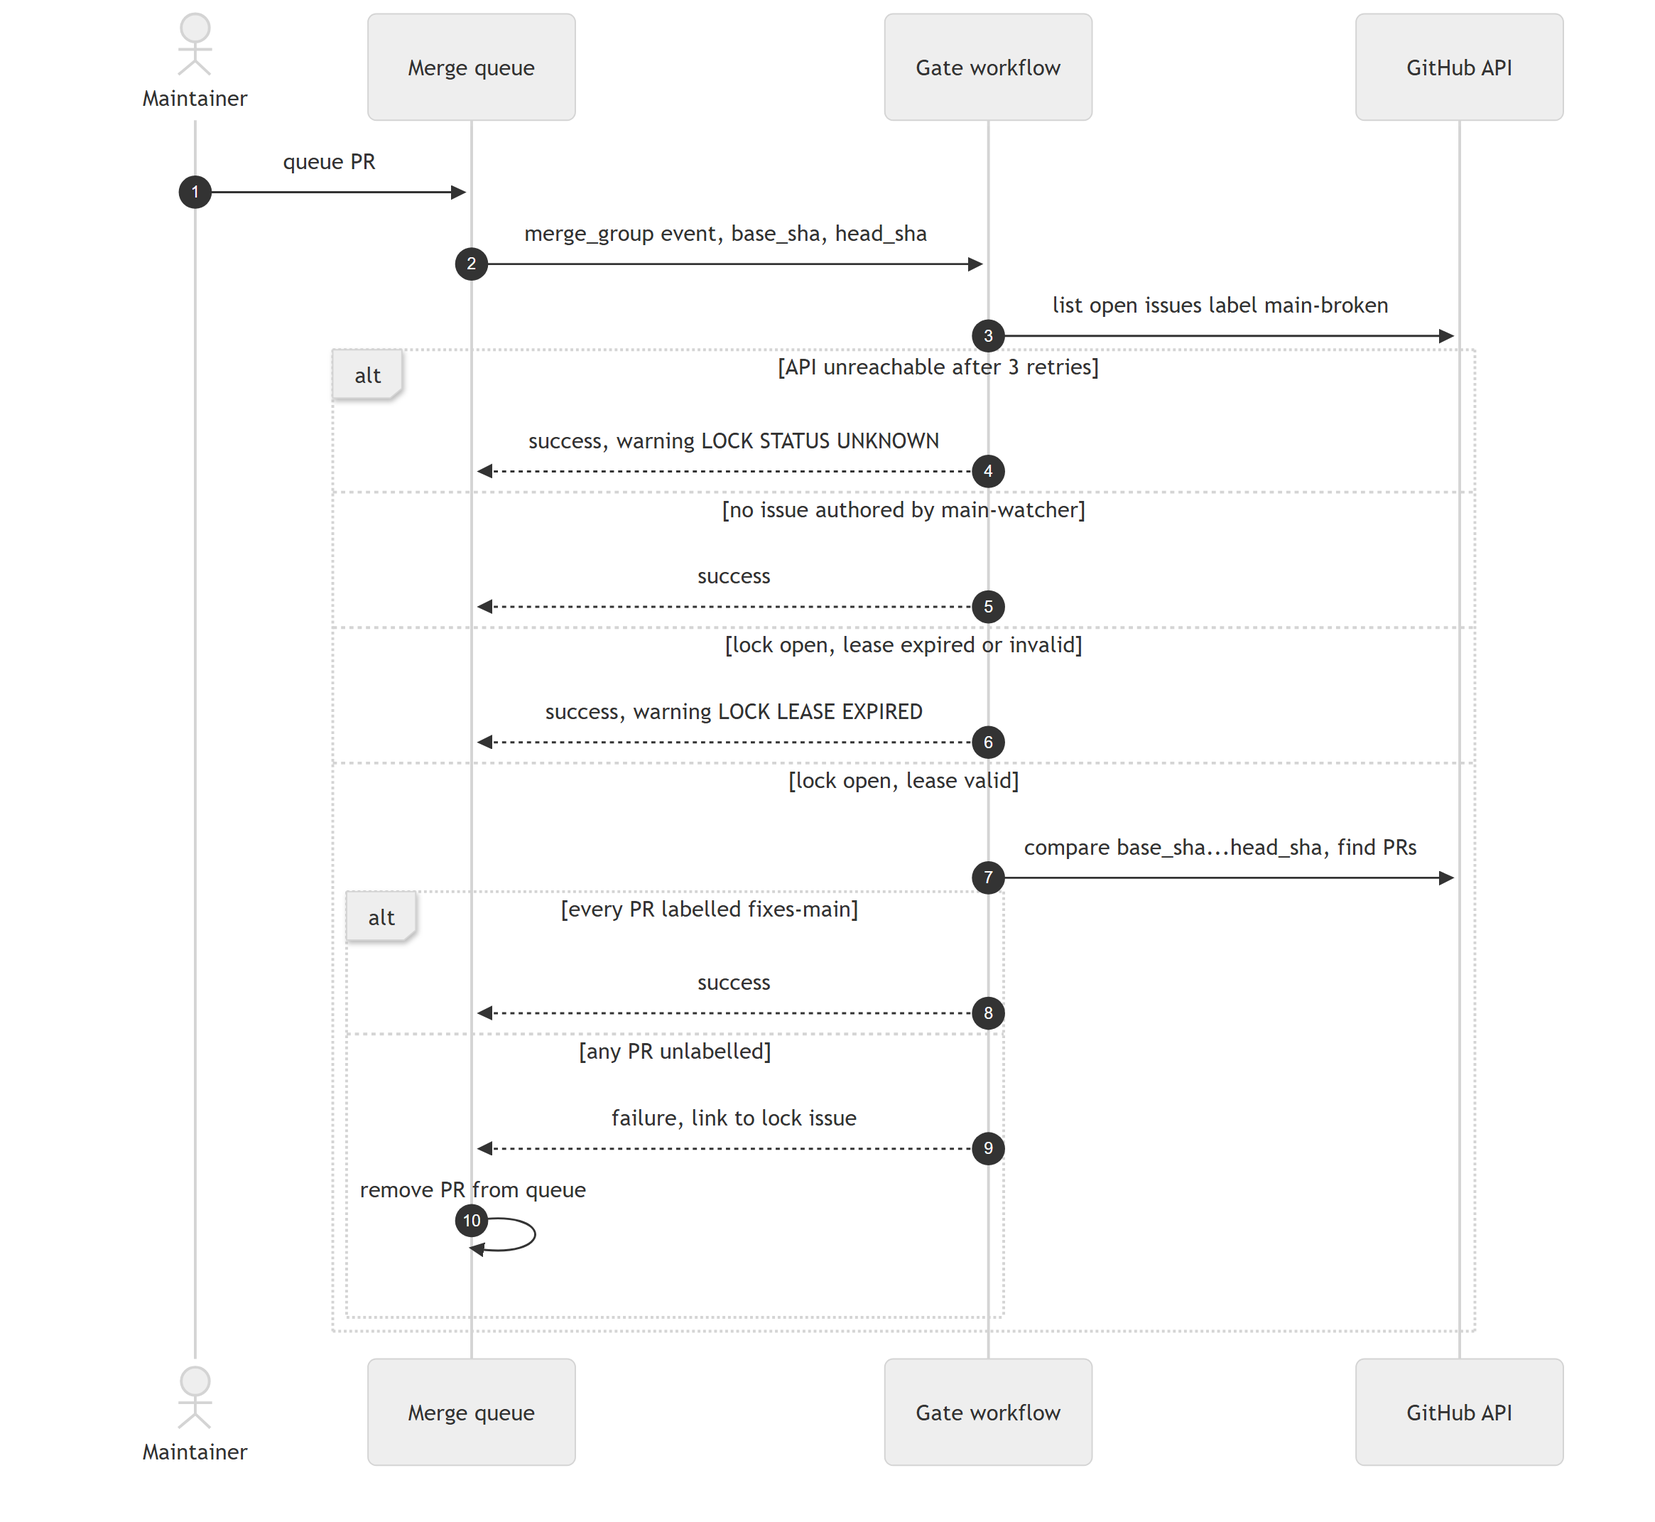
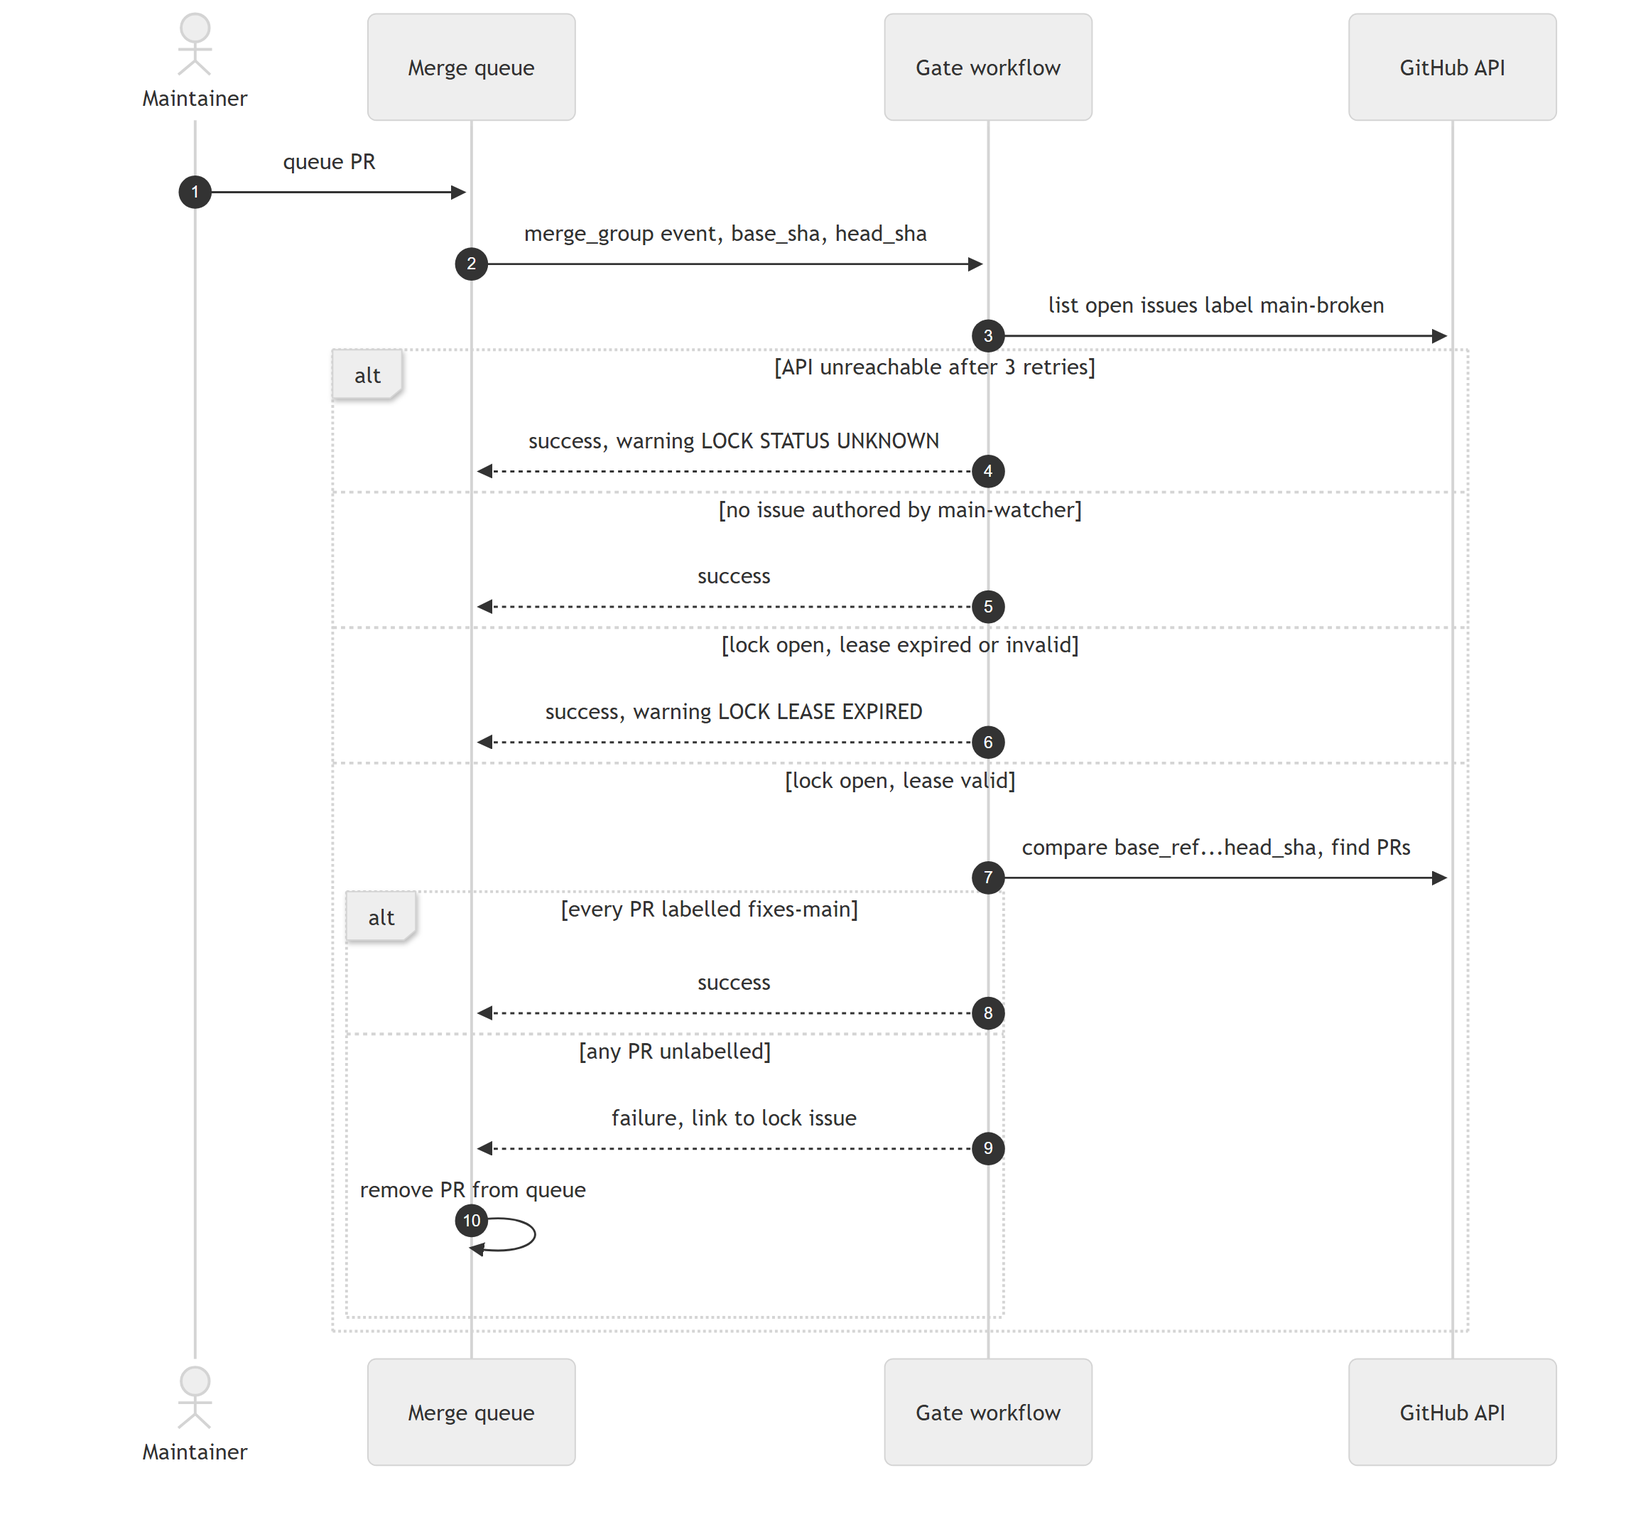
Check every PR in a batched merge group; publish the sandbox gate separately
Sandbox TS-S5 showed that a queue entry's base_sha is the head of the entry ahead of it,
so base_sha...head_sha saw only the entry's own PR. The gate now compares the queue's
target branch (base_ref) with head_sha. A-5 and §5.2 record the finding.

Public sandbox targets cannot use an action from the private sandbox watcher repo, so
sandbox/publish-gate.sh publishes the gate to the public main-watcher-sandbox/gate repo,
and seed-target.sh points targets at it.

diff --git a/tests/MainWatcher.Gate.Tests/GateTests.cs b/tests/MainWatcher.Gate.Tests/GateTests.cs
@@ -12,7 +12,7 @@ public class GateTests
     static FakeGitHub LockedGroup(DateTimeOffset leaseUntil, string[] pr1Labels, string[] pr2Labels) =>
         new FakeGitHub()
             .LockIssues(Lock(7, leaseUntil))
-            .Compare(Sha('a'), Sha('f'),
+            .Compare("main", Sha('f'),
                 Commit(Sha('1')), Commit(Sha('b'), "Merge pull request #1 from team/fix"),
                 Commit(Sha('2')), Commit(Sha('c'), "Merge pull request #2 from team/feature"))
             .CommitPulls(Sha('1'), Pull(1, pr1Labels))
@@ -94,6 +94,21 @@ public class GateTests
         Assert.Contains("#1 PR 1", verdict.Detail);
     }
 
+    // TS-S5 in the sandbox: for a queue entry behind another, base_sha is the head of the entry ahead,
+    // so the gate compares from the target branch to see every PR in the batch.
+    [Fact]
+    public async Task A_batched_entry_is_checked_against_the_target_branch_not_base_sha()
+    {
+        var github = LockedGroup(ValidLease, [], ["fixes-main"]);
+        var entryBehind = new GateEvent("merge_group", Sha('c'), Sha('f'), $"gh-readonly-queue/main/pr-2-{Sha('c')}", "refs/heads/main");
+
+        var verdict = await github.Gate().DecideAsync(entryBehind, Now, TestContext.Current.CancellationToken);
+
+        Assert.Equal(GateOutcome.Fail, verdict.Outcome);
+        Assert.Contains("#1 PR 1", verdict.Detail);
+        Assert.DoesNotContain(github.Requests, request => request.Contains($"compare/{Sha('c')}"));
+    }
+
     [Fact]
     public async Task A_valid_lock_passes_a_group_where_every_pull_request_is_a_fix()
     {
@@ -103,7 +118,7 @@ public class GateTests
 
         Assert.Equal(GateOutcome.Pass, verdict.Outcome);
         Assert.Null(verdict.FailOpenReason);
-        // Every commit between base_sha and head_sha was checked.
+        // Every commit on head_sha that is not yet on main was checked.
         foreach (var sha in new[] { '1', 'b', '2', 'c' })
             Assert.Contains($"/repos/{Repo}/commits/{Sha(sha)}/pulls?per_page=100", github.Requests);
     }
@@ -114,7 +129,7 @@ public class GateTests
         // A squash-merged group: the rewritten commits have no associated PRs.
         var github = new FakeGitHub()
             .LockIssues(Lock(7, ValidLease))
-            .Compare(Sha('a'), Sha('f'), Commit(Sha('b'), "Fix the build (#1)\n\nDetails"), Commit(Sha('c'), "Add a feature"))
+            .Compare("main", Sha('f'), Commit(Sha('b'), "Fix the build (#1)\n\nDetails"), Commit(Sha('c'), "Add a feature"))
             .CommitPulls(Sha('b'))
             .CommitPulls(Sha('c'))
             .Respond($"/repos/{Repo}/pulls/1", Pull(1, "fixes-main"))
@@ -133,7 +148,7 @@ public class GateTests
         var otherBranch = new { number = 9, title = "stacked", state = "open", @base = new { @ref = "feature" }, labels = Array.Empty<object>() };
         var github = new FakeGitHub()
             .LockIssues(Lock(7, ValidLease))
-            .Compare(Sha('a'), Sha('f'), Commit(Sha('2')))
+            .Compare("main", Sha('f'), Commit(Sha('2')))
             .CommitPulls(Sha('2'), Pull(2, "fixes-main"), closed, otherBranch);
 
         var verdict = await github.Gate().DecideAsync(MergeGroup(headPr: 2), Now, TestContext.Current.CancellationToken);
@@ -236,7 +251,7 @@ public class GateTests
     {
         var github = new FakeGitHub()
             .LockIssues(Lock(7, ValidLease))
-            .Respond($"/repos/{Repo}/compare/{Sha('a')}...{Sha('f')}?per_page=100&page=1",
+            .Respond($"/repos/{Repo}/compare/main...{Sha('f')}?per_page=100&page=1",
                 () => Json(HttpStatusCode.ServiceUnavailable, new { message = "unavailable" }));
 
         var verdict = await github.Gate().DecideAsync(MergeGroup(), Now, TestContext.Current.CancellationToken);
@@ -259,8 +274,8 @@ public class GateTests
                 return response;
             })
             .Respond($"/repos/{Repo}/issues?state=open&labels=main-broken&per_page=100&page=2", new[] { Lock(7, ValidLease) })
-            .Respond($"/repos/{Repo}/compare/{Sha('a')}...{Sha('f')}?per_page=100&page=1", new { total_commits = 150, commits = commits[..100] })
-            .Respond($"/repos/{Repo}/compare/{Sha('a')}...{Sha('f')}?per_page=100&page=2", new { total_commits = 150, commits = commits[100..] });
+            .Respond($"/repos/{Repo}/compare/main...{Sha('f')}?per_page=100&page=1", new { total_commits = 150, commits = commits[..100] })
+            .Respond($"/repos/{Repo}/compare/main...{Sha('f')}?per_page=100&page=2", new { total_commits = 150, commits = commits[100..] });
         foreach (var i in Enumerable.Range(0, 150))
             github.CommitPulls(i.ToString("x40"), Pull(2));
 
@@ -274,7 +289,7 @@ public class GateTests
     public void Reads_the_merge_group_fields_from_the_event_payload()
     {
         using var payload = JsonDocument.Parse($$$"""
-            {"action":"checks_requested","merge_group":{"base_sha":"{{{Sha('a')}}}","head_sha":"{{{Sha('f')}}}","head_ref":"gh-readonly-queue/main/pr-2-{{{Sha('a')}}}"}}
+            {"action":"checks_requested","merge_group":{"base_sha":"{{{Sha('a')}}}","head_sha":"{{{Sha('f')}}}","head_ref":"gh-readonly-queue/main/pr-2-{{{Sha('a')}}}","base_ref":"refs/heads/main"}}
             """);
 
         Assert.Equal(MergeGroup(), GateEvent.Read("merge_group", payload.RootElement));

diff --git a/src/MainWatcher.Gate/Gate.cs b/src/MainWatcher.Gate/Gate.cs
@@ -20,11 +20,11 @@ public sealed record GateVerdict(GateOutcome Outcome, string Title, string Detai
 }
 
 /// <summary>The fields of the triggering event the gate uses.</summary>
-public sealed record GateEvent(string Name, string? BaseSha = null, string? HeadSha = null, string? HeadRef = null)
+public sealed record GateEvent(string Name, string? BaseSha = null, string? HeadSha = null, string? HeadRef = null, string? BaseRef = null)
 {
     public static GateEvent Read(string name, JsonElement payload) =>
         payload.TryGetProperty("merge_group", out var group) && group.ValueKind == JsonValueKind.Object
-            ? new(name, String(group, "base_sha"), String(group, "head_sha"), String(group, "head_ref"))
+            ? new(name, String(group, "base_sha"), String(group, "head_sha"), String(group, "head_ref"), String(group, "base_ref"))
             : new(name);
 
     static string? String(JsonElement element, string property) =>
@@ -112,15 +112,22 @@ public sealed class Gate(GitHubApi api, string repository, string botLogin = Gat
     }
 
     /// <summary>
-    /// Finds the PRs in a merge group from the commits between <c>base_sha</c> and <c>head_sha</c> (A-5):
-    /// the open PRs associated with each commit, PRs named in merge or squash commit subjects, and the
-    /// PR in the queue branch name. Only open PRs into the queue's branch count. Including a PR that is
-    /// not in the group can only make the gate stricter.
+    /// Finds the PRs in a merge group from the commits on <c>head_sha</c> that are not yet on the queue's
+    /// target branch: the open PRs associated with each commit, PRs named in merge or squash commit
+    /// subjects, and the PR in the queue branch name. Only open PRs into the target branch count.
+    /// Including a PR that is not in the group can only make the gate stricter.
     /// </summary>
+    /// <remarks>
+    /// The comparison starts from the target branch, not <c>base_sha</c>: for a queue entry behind
+    /// others, <c>base_sha</c> is the head of the entry ahead of it, so <c>base_sha...head_sha</c>
+    /// holds only that entry's own PR (sandbox TS-S5, 2026-09-16; A-5).
+    /// </remarks>
     async Task<List<PullRequest>> FindGroupPullRequestsAsync(GateEvent evt, CancellationToken ct)
     {
         var queueBranch = evt.HeadRef is null ? null : QueueBranch.Match(evt.HeadRef);
-        var targetBranch = queueBranch is { Success: true } ? queueBranch.Groups["branch"].Value : null;
+        var targetBranch = evt.BaseRef is { } baseRef && baseRef.StartsWith("refs/heads/", StringComparison.Ordinal)
+            ? baseRef["refs/heads/".Length..]
+            : queueBranch is { Success: true } ? queueBranch.Groups["branch"].Value : null;
         var found = new SortedDictionary<int, PullRequest>();
         var named = new SortedSet<int>();
 
@@ -140,9 +147,9 @@ public sealed class Gate(GitHubApi api, string repository, string botLogin = Gat
         if (queueBranch is { Success: true })
             named.Add(int.Parse(queueBranch.Groups["number"].Value));
 
-        if (evt.BaseSha is not null && evt.HeadSha is not null)
+        if ((targetBranch ?? evt.BaseSha) is { } compareBase && evt.HeadSha is not null)
         {
-            foreach (var commit in await CompareAsync(evt.BaseSha, evt.HeadSha, ct))
+            foreach (var commit in await CompareAsync(compareBase, evt.HeadSha, ct))
             {
                 foreach (var pr in await api.GetAllPagesAsync($"repos/{repository}/commits/{commit.Sha}/pulls?per_page=100", ct))
                     Add(pr);
@@ -160,13 +167,13 @@ public sealed class Gate(GitHubApi api, string repository, string botLogin = Gat
         return [.. found.Values];
     }
 
-    async Task<List<Commit>> CompareAsync(string baseSha, string headSha, CancellationToken ct)
+    async Task<List<Commit>> CompareAsync(string compareBase, string headSha, CancellationToken ct)
     {
         const int pageSize = 100;
         var commits = new List<Commit>();
         for (var page = 1; ; page++)
         {
-            var comparison = await api.GetAsync($"repos/{repository}/compare/{baseSha}...{headSha}?per_page={pageSize}&page={page}", ct);
+            var comparison = await api.GetAsync($"repos/{repository}/compare/{compareBase}...{headSha}?per_page={pageSize}&page={page}", ct);
             var pageCommits = comparison.GetProperty("commits").EnumerateArray()
                 .Select(c => new Commit(c.GetProperty("sha").GetString() ?? "", c.GetProperty("commit").GetProperty("message").GetString() ?? ""))
                 .ToList();

diff --git a/tests/MainWatcher.Gate.Tests/FakeGitHub.cs b/tests/MainWatcher.Gate.Tests/FakeGitHub.cs
@@ -30,8 +30,8 @@ sealed class FakeGitHub : HttpMessageHandler
     public FakeGitHub LockIssues(params object[] issues) =>
         Respond($"/repos/{Repo}/issues?state=open&labels=main-broken&per_page=100", issues);
 
-    public FakeGitHub Compare(string baseSha, string headSha, params object[] commits) =>
-        Respond($"/repos/{Repo}/compare/{baseSha}...{headSha}?per_page=100&page=1", new { total_commits = commits.Length, commits });
+    public FakeGitHub Compare(string compareBase, string headSha, params object[] commits) =>
+        Respond($"/repos/{Repo}/compare/{compareBase}...{headSha}?per_page=100&page=1", new { total_commits = commits.Length, commits });
 
     public FakeGitHub CommitPulls(string sha, params object[] pulls) =>
         Respond($"/repos/{Repo}/commits/{sha}/pulls?per_page=100", pulls);
@@ -76,5 +76,5 @@ sealed class FakeGitHub : HttpMessageHandler
         };
 
     public static GateEvent MergeGroup(int headPr = 2) =>
-        new("merge_group", Sha('a'), Sha('f'), $"gh-readonly-queue/main/pr-{headPr}-{Sha('a')}");
+        new("merge_group", Sha('a'), Sha('f'), $"gh-readonly-queue/main/pr-{headPr}-{Sha('a')}", "refs/heads/main");
 }

diff --git a/docs/architecture/architecture.md b/docs/architecture/architecture.md
@@ -112,7 +112,7 @@ Main Watcher has no datastore; GitHub holds all state (ADR-003):
 | A-1 | Fewer than 20 target repos | Worker API usage and dispatch volume grow; revisit ADR-010 | Platform lead | 2026-10-15 |
 | A-2 | Test suites finish in under 30 minutes | Slower detection; more superseded commits | Platform lead | Onboarding |
 | A-4 | Target test workflows run on GitHub-hosted runners, or on self-hosted runners the target team owns | None for the watcher; isolation is the target team's concern | Target owners | Onboarding |
-| A-5 | The merge-group payload's `base_sha`/`head_sha` identify every PR in a group | The gate cannot enforce grouped merges | Platform lead | Sandbox, before rollout |
+| A-5 | The gate can identify every PR in a merge group. **Tested in the sandbox on 2026-09-16 (TS-S5):** `base_sha...head_sha` does not work, because for a queue entry behind another, `base_sha` is the head of the entry ahead of it. The gate therefore compares the queue's target branch (`base_ref`) with `head_sha` | The gate cannot enforce grouped merges | Platform lead | Confirmed in the sandbox with the target-branch comparison; TS-S5 at onboarding |
 | A-6 | The cluster has outbound HTTPS to `api.github.com` and a secret store (no alerting stack; see C-8). Confirmed 2026-09-16: a pod in namespace `main-watcher-sandbox` got HTTP 200 from `api.github.com`; the sandbox holds the App keys in a plain Kubernetes Secret, and production will use the cluster's secret store | The worker cannot run there | Platform team | Confirmed 2026-09-16 |
 | A-7 | Re-running a successful required check makes it pending again for the merge group, and a failed re-run removes the group; queued groups appear as `gh-readonly-queue/main/*` branches | ADR-016 cannot stop groups that passed before a lock; replace it with its Option B or D | Platform lead | Sandbox TS-S17, before rollout |
 
@@ -385,7 +385,7 @@ sequenceDiagram
     else lock open, lease expired or invalid
         G-->>MQ: success, warning LOCK LEASE EXPIRED
     else lock open, lease valid
-        G->>GH: compare base_sha...head_sha, find PRs
+        G->>GH: compare base_ref...head_sha, find PRs
         alt every PR labelled fixes-main
             G-->>MQ: success
         else any PR unlabelled
@@ -401,7 +401,7 @@ sequenceDiagram
 - **Implementation.** Targets copy `templates/main-watcher-gate.yml`. Its
   `main-watcher-gate` job runs the gate action from the watcher repo at a pinned tag, which
   builds `src/MainWatcher.Gate`. The group's PRs are the open PRs into the queue's branch
-  that are associated with a commit between `base_sha` and `head_sha`, named in a merge or
+  that are associated with a commit on `head_sha` not yet on the target branch (`base_ref`), named in a merge or
   squash commit subject, or named in the queue branch; including an extra PR can only make
   the gate stricter. When the gate fails open, a second job named
   `main-watcher/gate-fail-open` runs, so the fail-open check run needs no `checks: write`.
@@ -783,3 +783,4 @@ team subscribes to that label.
 | 2026-09-16 | Security approved Actions: write for `main-watcher` and Issues: read for `mw-observer`, on condition that the Apps are installed only on watched repos; recorded against R-11. §8 and §10 onboarding and removal steps updated; TS-001 §6 checklist extended | Security; platform team with Claude | ADR-009, ADR-013, ADR-014, ADR-016 (no change) |
 | 2026-09-16 | Sandbox targets `sample-target` and `sample-target-slow` seeded from `sandbox/sample-target`: xUnit v3 on .NET 10 with Microsoft Testing Platform, one CTRF report per test project, outcomes steered by `sandbox.json`, merge queue on `main`. TS-001 §3 names them | Platform team with Claude | — |
 | 2026-09-16 | Gate template v1 built (MainWatcher#5): `templates/main-watcher-gate.yml`, the gate action and `src/MainWatcher.Gate`; the `gate-fail-open` check run is a job in the template, so gate permissions stay read-only (§5.2). Watcher repo CI runs unit tests and actionlint | Platform team with Claude | ADR-002, ADR-008, ADR-014 (no change) |
+| 2026-09-16 | Sandbox TS-S4 passed. TS-S5 disproved A-5 as worded: a queue entry's `base_sha` is the head of the entry ahead of it, so the gate now compares `base_ref...head_sha` and sees every PR in a batch (§3, §5.2). Sandbox targets use the gate from the public `main-watcher-sandbox/gate` repo, because a public target cannot use an action from a private repo | Platform team with Claude | ADR-002 (no change) |

diff --git a/sandbox/README.md b/sandbox/README.md
@@ -6,6 +6,7 @@ Material for the scenario-test sandbox, the `main-watcher-sandbox` organisation 
 |---|---|
 | `sample-target/` | Template for the synthetic target repos. Its [README](sample-target/README.md) lists the `sandbox.json` switches |
 | `rulesets/main-merge-queue.json` | The merge-queue ruleset applied to `main` in each sandbox target |
+| `publish-gate.sh` | Publishes the gate action and `src/MainWatcher.Gate` to the public `main-watcher-sandbox/gate` repo |
 | `seed-target.sh` | Pushes the template and the gate workflow to a sandbox repo, creates the `main-broken` and `fixes-main` labels, and applies the ruleset. Re-run it to reset a repo |
 
 Seed or reset both targets (needs `gh` logged in as a sandbox org admin):
@@ -21,18 +22,26 @@ To check a seeded repo builds and writes CTRF, run its `sandbox-selftest` workfl
 gh workflow run sandbox-selftest.yml -R main-watcher-sandbox/sample-target
 ```
 
-## The sandbox watcher repo
+## The sandbox watcher and gate repos
 
-`main-watcher-sandbox/main-watcher` stands in for this repo. Sandbox targets run the gate
-action from it, and its `reporter` environment holds the `main-watcher` App key. Before a
-scenario test, push the MainWatcher commit under test to its `main`:
+`main-watcher-sandbox/main-watcher` is private and stands in for this repo. Its `reporter`
+environment holds the `main-watcher` App key. Before a scenario test, push the MainWatcher
+commit under test to its `main`:
 
 ```
 git push https://github.com/main-watcher-sandbox/main-watcher.git HEAD:main
 ```
 
-The gate in seeded targets uses `@main` of that repo; set `WATCHER_REF` when seeding to pin
-another ref.
+Sandbox targets are public, because the sandbox org is on the Free plan, where the merge
+queue works only in public repos. A public repo cannot use an action from a private one, so
+the gate is also published on its own to the public `main-watcher-sandbox/gate` repo, and
+seeded targets use its `@main`:
+
+```
+sandbox/publish-gate.sh
+```
+
+Set `GATE_REF` when seeding to pin another ref.
 
 ## Hand-made locks
 

diff --git a/sandbox/sample-target/README.md b/sandbox/sample-target/README.md
@@ -57,7 +57,7 @@ merge limit 2, minimum group 1, 1-minute wait, so batched groups can be formed (
 Organisation admins bypass it, so scenario scripts can push to `main` directly.
 
 `.github/workflows/main-watcher-gate.yml` is added by `seed-target.sh` from MainWatcher's
-`templates/`, using the gate action from `main-watcher-sandbox/main-watcher`. Its
+`templates/`, using the gate action from the public `main-watcher-sandbox/gate` repo. Its
 `main-watcher-gate` job is a required check. While an App-authored `main-broken` issue with a
 valid lease is open, merge groups fail unless every PR in them is labelled `fixes-main`.
 
